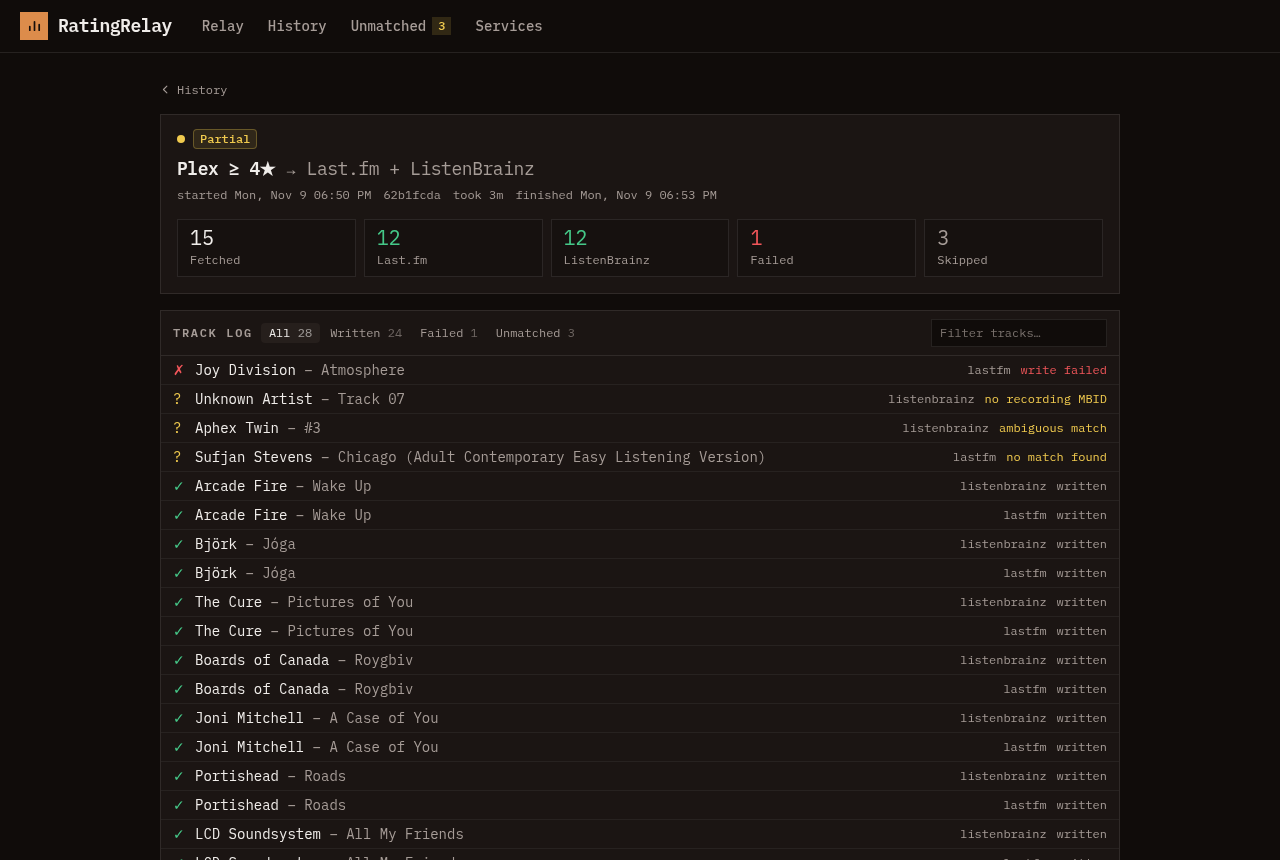
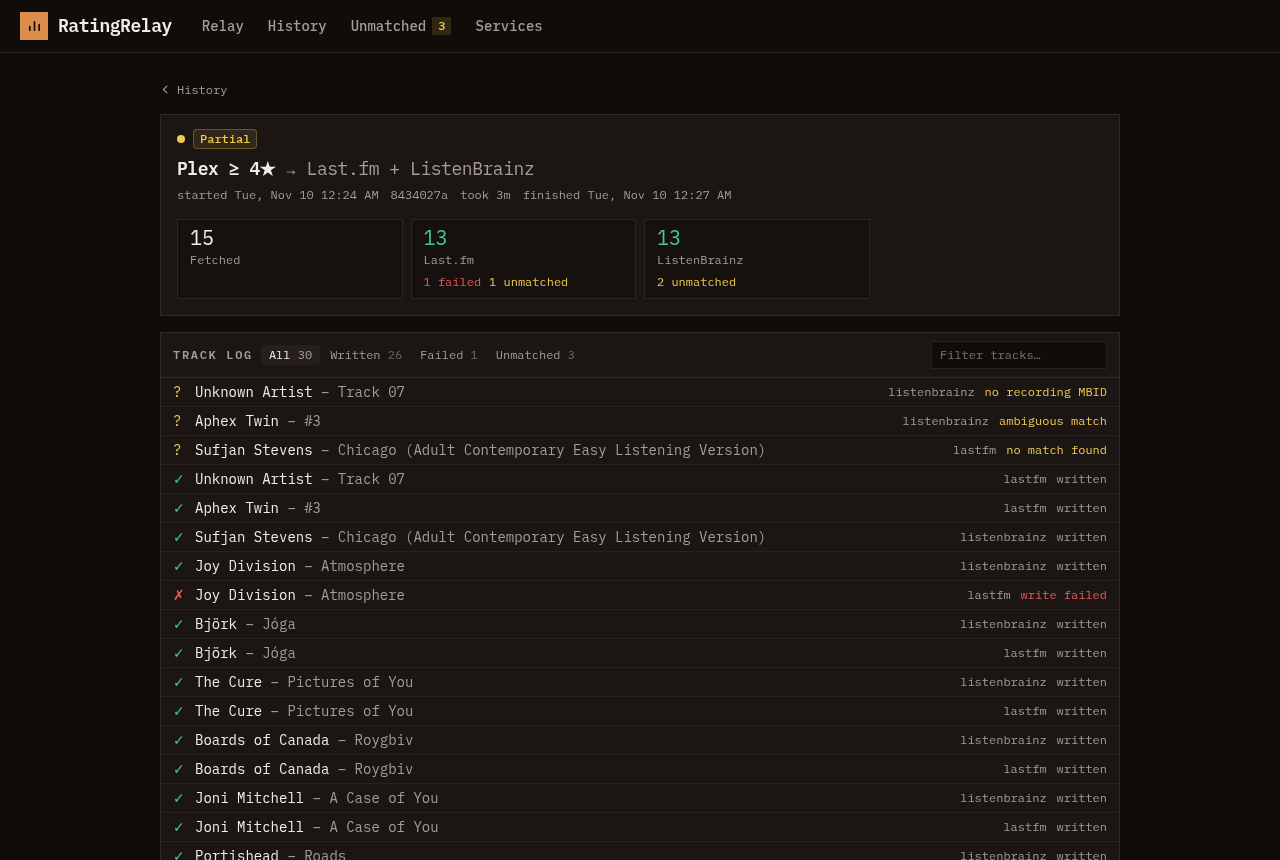
fix(scripts): make demo runs add up per destination
Unmatched tracks only had an event on one target and an extra track sat
outside the fetched count, so the README screenshots showed tallies that
could not add up. Every fetched track now lands once on each target.
Screenshots retaken.

diff --git a/scripts/demo.py b/scripts/demo.py
@@ -84,7 +84,7 @@ LOVED = [
     ("Boards of Canada", "Roygbiv"),
     ("The Cure", "Pictures of You"),
     ("Björk", "Jóga"),
-    ("Arcade Fire", "Wake Up"),
+    ("Joy Division", "Atmosphere"),
 ]
 UNMATCHED = [
     ("Sufjan Stevens", "Chicago (Adult Contemporary Easy Listening Version)", "lastfm",
@@ -143,18 +143,37 @@ def seed() -> None:
         db.commit()
 
     targets = ["lastfm", "listenbrainz"]
+    # A real run reports every fetched track once per target, so each target's
+    # rows add up to the fetched count: an unmatched track was still written to
+    # the target that could place it.
+    fetched = len(LOVED) + len(UNMATCHED)
     written = [(a, t, tgt, "written", None, None) for a, t in LOVED for tgt in targets]
     unmatched = [(a, t, tgt, "unmatched", r, c) for a, t, tgt, r, c in UNMATCHED]
-    synced = [(a, t, tgt, "skipped", "already_synced", None) for a, t in LOVED for tgt in targets]
+    placed = [(a, t, other, "written", None, None)
+              for a, t, tgt, _, _ in UNMATCHED for other in targets if other != tgt]
+    synced = [(a, t, tgt, "skipped", "already_synced", None)
+              for a, t in LOVED for tgt in targets] + [
+              (a, t, tgt, "skipped", "already_synced", None) for a, t, tgt, *_ in placed]
+    # The partial run: Last.fm refused one love.
+    flaky = ("Joy Division", "Atmosphere", "lastfm")
+    partial = [(a, t, tgt, "failed", "write_failed", None) if (a, t, tgt) == flaky
+               else (a, t, tgt, o, r, c) for a, t, tgt, o, r, c in written]
 
+    def counts(events):
+        ok = sum(o == "written" for *_, o, _, _ in events)
+        err = sum(o == "failed" for *_, o, _, _ in events)
+        return {"ok": ok, "err": err, "skipped": len(events) - ok - err}
+
+    first = written + placed + unmatched
     _job(engine, ago=timedelta(days=6), status="completed", targets=targets, dry_run=True,
-         fetched=15, ok=24, skipped=3, events=written + unmatched)
+         fetched=fetched, events=first, **counts(first))
+    second = partial + placed + unmatched
     _job(engine, ago=timedelta(days=5, hours=23), status="partial", targets=targets,
-         fetched=15, ok=24, err=1, skipped=3,
-         events=written + unmatched + [("Joy Division", "Atmosphere", "lastfm", "failed", "write_failed", None)])
+         fetched=fetched, events=second, **counts(second))
+    later = synced + unmatched
     for day in range(4, 0, -1):
         _job(engine, ago=timedelta(days=day), status="completed", targets=targets, recurring=True,
-             fetched=15, ok=0, skipped=27, events=synced + unmatched)
+             fetched=fetched, events=later, **counts(later))
     _job(engine, ago=timedelta(hours=2), status="completed", targets=["plex"], source={"service": "lastfm"},
          fetched=6, ok=6, events=[(a, t, "plex", "written", None, None) for a, t in LOVED[:6]])
 
